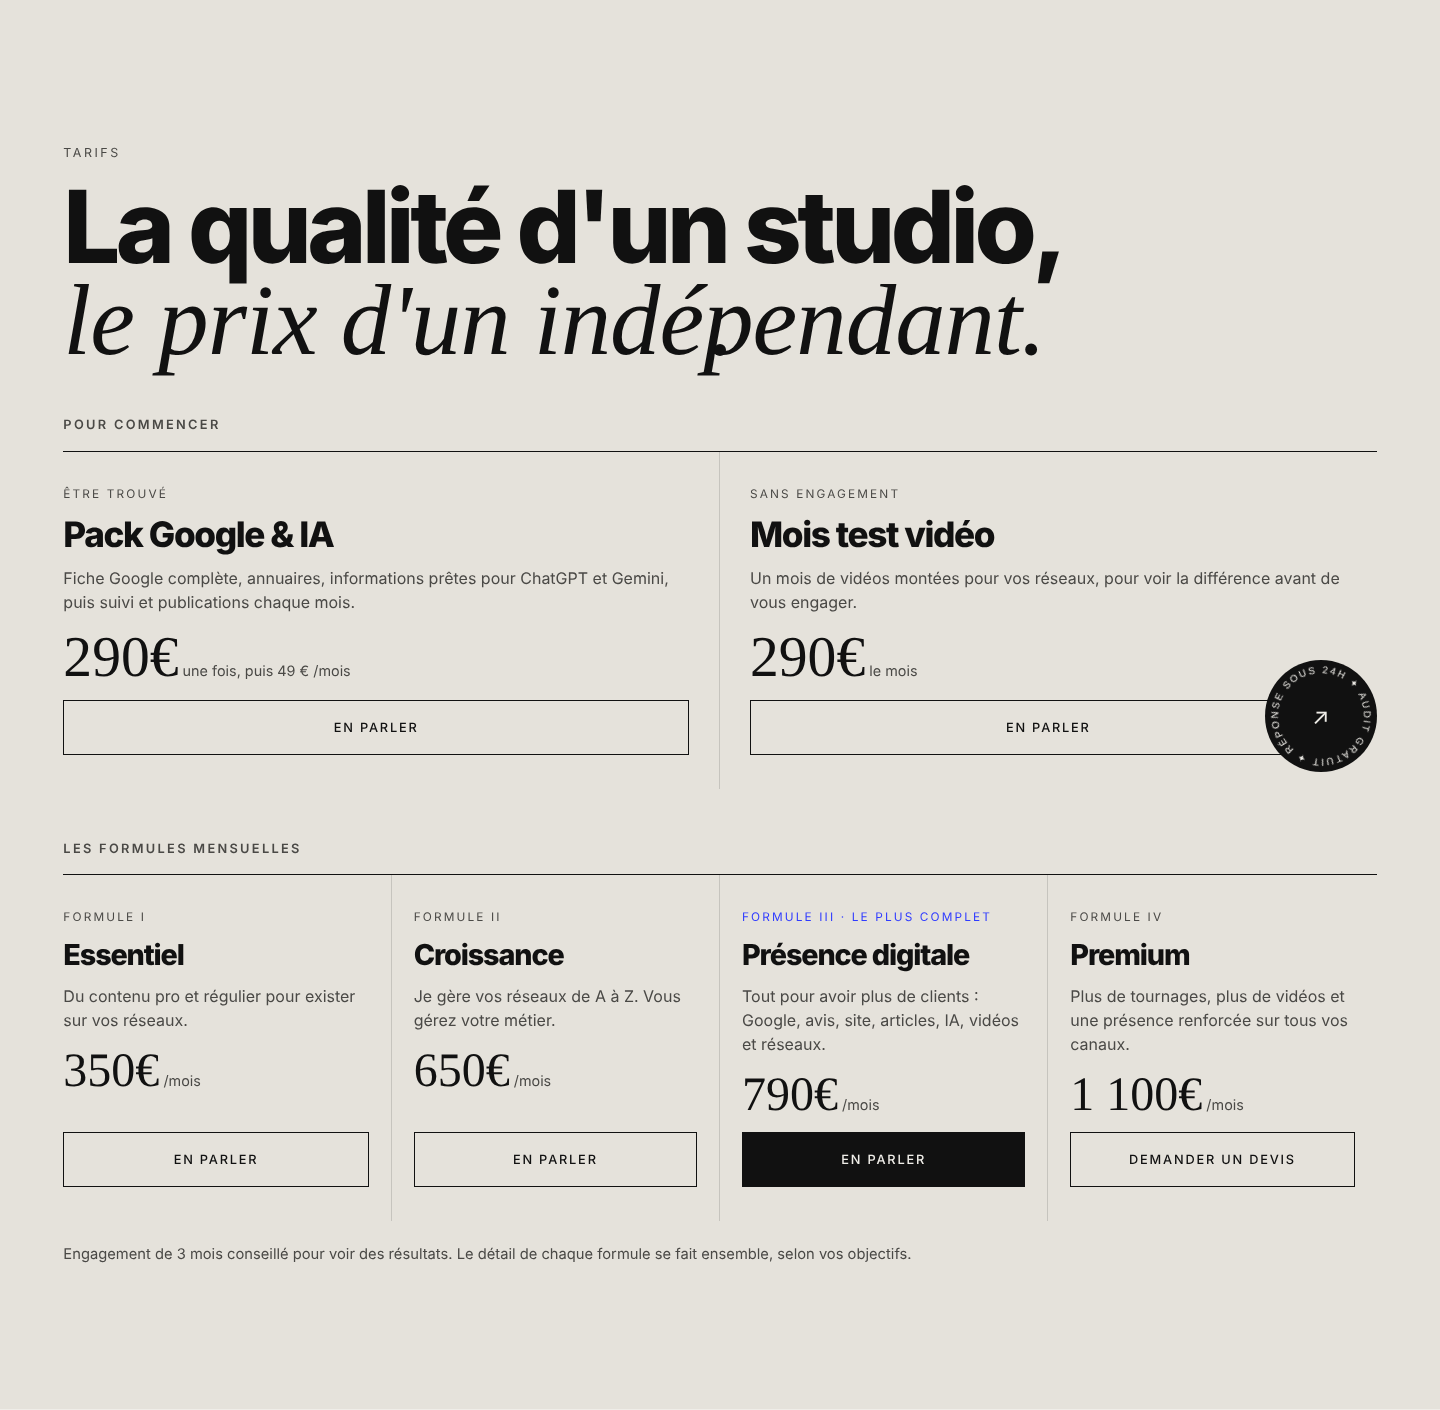
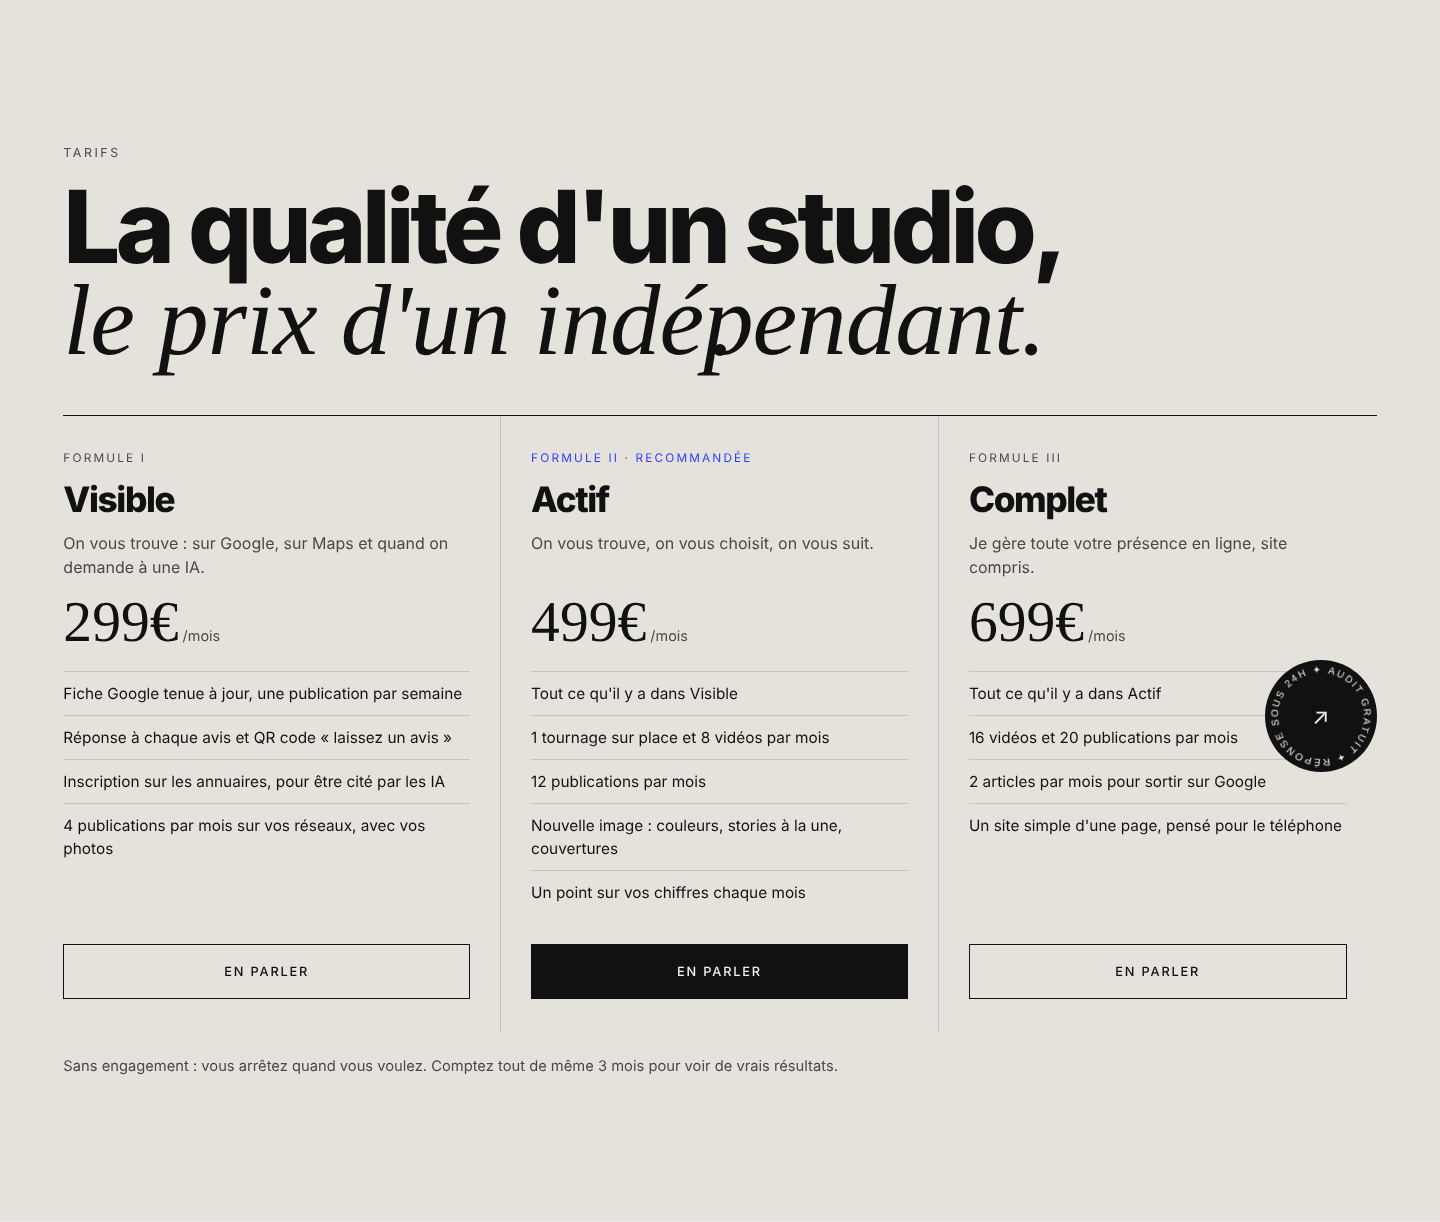
Proposition : reprise des changements de la session Prospection (accroche, Google & IA, formules Visible/Actif/Complet, FAQ) sur la version à jour du site
Claude-Session: https://claude.ai/code/session_018tAZYAxUmFNbKmCfUcRUAq

diff --git a/index.html b/index.html
@@ -4,7 +4,7 @@
 <meta charset="utf-8">
 <meta name="viewport" content="width=device-width,initial-scale=1,viewport-fit=cover">
 <title>Ngora Studio · Montage vidéo, motion design & sites web en Île-de-France</title>
-<meta name="description" content="Ngora Studio : des réseaux pros pour le moins cher, livrés en 24 h max. Montage vidéo, motion design, DA et sites web pour donner à votre marque une présence en ligne qui fait la différence. Instagram, TikTok, YouTube Shorts, LinkedIn.">
+<meta name="description" content="Ngora Studio : je crée ou j'améliore la présence de votre commerce sur Internet et sur les réseaux (vidéos, image, Google, site web) pour vous amener de nouveaux clients et renforcer votre crédibilité.">
 <link rel="canonical" href="https://nguedjeupatrick-ctrl.github.io/ngora-site/">
 <meta property="og:type" content="website">
 <meta property="og:locale" content="fr_FR">
@@ -25,7 +25,7 @@
 <link rel="icon" type="image/png" sizes="512x512" href="assets/icon-512.png">
 <link rel="apple-touch-icon" href="assets/apple-touch-icon.png">
 <script type="application/ld+json">
-{"@context":"https://schema.org","@type":"ProfessionalService","@id":"https://nguedjeupatrick-ctrl.github.io/ngora-site/#studio","name":"Ngora Studio","url":"https://nguedjeupatrick-ctrl.github.io/ngora-site/","image":"https://nguedjeupatrick-ctrl.github.io/ngora-site/assets/og.jpg","logo":"https://nguedjeupatrick-ctrl.github.io/ngora-site/assets/icon-512.png","description":"Montage vidéo pro, motion design, direction artistique, gestion des réseaux sociaux et sites web pour les marques, en Île-de-France. Livraison en 24 h maximum.","telephone":"+33649288390","email":"nguedjeupatrick@gmail.com","founder":{"@type":"Person","name":"Rayan Nguedjeu"},"areaServed":{"@type":"AdministrativeArea","name":"Île-de-France"},"address":{"@type":"PostalAddress","streetAddress":"49 bis rue Pierre Brossolette","postalCode":"95590","addressLocality":"Presles","addressRegion":"Île-de-France","addressCountry":"FR"},"priceRange":"€€","knowsAbout":["Montage vidéo","Motion design","Direction artistique","Gestion des réseaux sociaux","Création de sites web","Instagram","TikTok","YouTube Shorts"],"hasOfferCatalog":{"@type":"OfferCatalog","name":"Formules","itemListElement":[{"@type":"Offer","name":"Présence","price":"290","priceCurrency":"EUR","description":"Du contenu pro et régulier pour exister sur vos réseaux, par mois."},{"@type":"Offer","name":"Croissance","price":"590","priceCurrency":"EUR","description":"Gestion complète des réseaux, par mois."},{"@type":"Offer","name":"Signature","price":"1290","priceCurrency":"EUR","description":"Tout le marketing : contenu, publicité, branding et site, à partir de, par mois."}]}}
+{"@context":"https://schema.org","@type":"ProfessionalService","@id":"https://nguedjeupatrick-ctrl.github.io/ngora-site/#studio","name":"Ngora Studio","url":"https://nguedjeupatrick-ctrl.github.io/ngora-site/","image":"https://nguedjeupatrick-ctrl.github.io/ngora-site/assets/og.jpg","logo":"https://nguedjeupatrick-ctrl.github.io/ngora-site/assets/icon-512.png","description":"Montage vidéo pro, motion design, direction artistique, gestion des réseaux sociaux et sites web pour les marques, en Île-de-France. Livraison en 24 h maximum.","telephone":"+33649288390","email":"nguedjeupatrick@gmail.com","founder":{"@type":"Person","name":"Rayan Nguedjeu"},"areaServed":{"@type":"AdministrativeArea","name":"Île-de-France"},"address":{"@type":"PostalAddress","streetAddress":"49 bis rue Pierre Brossolette","postalCode":"95590","addressLocality":"Presles","addressRegion":"Île-de-France","addressCountry":"FR"},"priceRange":"€€","knowsAbout":["Montage vidéo","Motion design","Direction artistique","Gestion des réseaux sociaux","Création de sites web","Instagram","TikTok","YouTube Shorts"],"hasOfferCatalog":{"@type":"OfferCatalog","name":"Formules sans engagement","itemListElement":[{"@type":"Offer","name":"Visible","price":"299","priceCurrency":"EUR","description":"Fiche Google, avis, annuaires et 4 publications par mois, par mois."},{"@type":"Offer","name":"Actif","price":"499","priceCurrency":"EUR","description":"Visible + tournage, 8 vidéos et 12 publications par mois, nouvelle image, par mois."},{"@type":"Offer","name":"Complet","price":"699","priceCurrency":"EUR","description":"Actif + 16 vidéos, 20 publications, 2 articles et un site simple, par mois."}]}}
 </script>
 <script>try{window.NG_T0=performance.now();if(!matchMedia('(prefers-reduced-motion: reduce)').matches){document.documentElement.classList.add('js-intro');setTimeout(function(){document.documentElement.classList.remove('js-intro');window.NG_LATE=true;},7000);}}catch(e){}</script>
 <link rel="preconnect" href="https://fonts.googleapis.com">
@@ -594,15 +594,15 @@
   .pd-market caption{text-align:left;font-size:.8rem;letter-spacing:.14em;text-transform:uppercase;color:var(--ink-2);padding-bottom:10px}
   .pd-market th,.pd-market td{border-top:1px solid var(--line);padding:10px 0;text-align:left;font-weight:400}
   .pd-market td{text-align:right;font-family:var(--serif);font-size:1.2rem}
-  .p-sub{margin-top:50px;font-size:.8rem;letter-spacing:.18em;text-transform:uppercase;color:var(--ink-2);font-weight:600}
-  .p-sub+.plans{margin-top:16px}
-  .plans.two{grid-template-columns:repeat(2,minmax(0,1fr))}
-  .plans.four{grid-template-columns:repeat(4,minmax(0,1fr))}
-  .plans.four .plan{padding:34px 22px}.plans.four .plan:first-child{padding-left:0}
-  @media (min-width:901px){.plans.two .plan+.plan{padding-left:30px}}
-  .plans.four .plan h3{font-size:1.8rem}.plans.four .plan .price{font-size:3rem}
-  @media (max-width:1100px){.plans.four{grid-template-columns:repeat(2,minmax(0,1fr))}.plans.four .plan:nth-child(2){border-right:none}}
-  @media (max-width:900px){.pd-steps>li{grid-template-columns:1fr}.pd-bricks{grid-template-columns:1fr}.plans.two,.plans.four{grid-template-columns:1fr}.plans.four .plan{padding:30px 0}}
+  @media (max-width:900px){.pd-steps>li{grid-template-columns:1fr}.pd-bricks{grid-template-columns:1fr}}
+  .sv-media.gmock{background:#F7F6F2;color:#111;padding:16px;display:flex;flex-direction:column;gap:10px;font-size:.78rem;line-height:1.35;text-transform:none;letter-spacing:0}
+  .gm-q{background:#fff;border-radius:99px;padding:9px 14px;box-shadow:0 1px 4px rgba(0,0,0,.12)}
+  .gm-q::before{content:"⌕ ";color:#2F3BFF}
+  .gm-card{background:#fff;border-radius:14px;padding:12px;display:flex;flex-direction:column;gap:4px;box-shadow:0 1px 4px rgba(0,0,0,.1)}
+  .gm-card b{font-size:.95rem}.gm-card span{color:#555}.gm-card em{font-style:normal;color:#1E9E95}
+  .gm-st{color:#F5A623!important;letter-spacing:.1em}
+  .gm-btns{display:flex;gap:6px;flex-wrap:wrap;margin-top:4px}.gm-btns i{font-style:normal;border:1px solid #2F3BFF;color:#2F3BFF;border-radius:99px;padding:3px 9px;font-size:.7rem}
+  .gm-ai{background:#2F3BFF;color:#fff;border-radius:14px;padding:12px}.gm-ai small{display:block;opacity:.75;font-size:.66rem;letter-spacing:.12em;text-transform:uppercase;margin-bottom:4px}
 </style>
 </head>
 <body class="no-js">
@@ -646,7 +646,7 @@
     <div class="hero-txt">
       <div class="kick hx">Studio de contenu · Île-de-France</div>
       <h1 class="hx">Une image<br>qui fait <span class="it">la différence.</span></h1>
-      <p class="lead hx">Vos réseaux font amateur ? Je les rends pro : montage, motion design, DA et sites web, à des prix qui défient toute concurrence et livrés en 24 h maximum.</p>
+      <p class="lead hx">Je crée ou j'améliore votre présence sur Internet et sur les réseaux, pour vous amener de nouveaux clients et renforcer votre crédibilité. Un seul interlocuteur, à prix juste.</p>
       <div class="hero-ctas hx"><a href="#contact" class="btn" data-wa>Demander un audit gratuit</a><a href="#travaux" class="ulink">Voir les réalisations</a></div>
       <div class="hero-stats hx">
         <div><b data-count="5" data-suf="M+">5M+</b><span>vues générées</span></div>
@@ -809,7 +809,7 @@
     <div class="kick">Ce que je fais</div>
     <h2 class="h2 rv" style="margin-top:18px">Tout votre marketing,<br><span class="it">simplifié.</span></h2>
   </div>
-  <ul class="sv" id="svList" aria-label="Services (faites glisser)"><li class="sv-row on" tabindex="0"><div class="sv-line"><span class="sv-n">01</span><h3>Montage pro</h3><span class="sv-more">Voir un exemple</span></div><div class="sv-body"><p>Accroche, rythme, sous-titres dynamiques, B-roll et habillage. Des vidéos qui retiennent le pouce.</p><div class="sv-media"><video src="assets/videos/tutoria-droits-dys.mp4" poster="assets/posters/tutoria-droits-dys.jpg" muted loop playsinline preload="none"></video></div></div></li><li class="sv-row" tabindex="0"><div class="sv-line"><span class="sv-n">02</span><h3>Motion design</h3><span class="sv-more">Voir un exemple</span></div><div class="sv-body"><p>Titres, chiffres, écrans et logos animés : votre marque reconnaissable d'une vidéo à l'autre.</p><div class="sv-media"><video src="assets/videos/tutoria-motion-appli.mp4" poster="assets/posters/tutoria-motion-appli.jpg" muted loop playsinline preload="none"></video></div></div></li><li class="sv-row" tabindex="0"><div class="sv-line"><span class="sv-n">03</span><h3>DA &amp; rebranding</h3><span class="sv-more">Voir un exemple</span></div><div class="sv-body"><p>Logo, couleurs, typographies, templates : une charte claire et appliquée partout.</p><div class="sv-media"><img src="assets/insta/feed-apres-crop.jpg" alt="" loading="lazy"></div></div></li><li class="sv-row" tabindex="0"><div class="sv-line"><span class="sv-n">04</span><h3>Gestion des réseaux</h3><span class="sv-more">Voir un exemple</span></div><div class="sv-body"><p>Calendrier, publications, stories, réponses et chiffres chaque mois. Exemple : 202 K vues en 30 jours sur le compte Tutoria.</p><div class="sv-media shot"><img src="assets/insta/tutoria-profil-2026.jpg" alt="Profil Instagram géré : 202,1 K vues en 30 jours, stories à la une et feed" loading="lazy"></div></div></li><li class="sv-row" tabindex="0"><div class="sv-line"><span class="sv-n">05</span><h3>Vignettes &amp; stories</h3><span class="sv-more">Voir un exemple</span></div><div class="sv-body"><p>Couvertures, carrousels et stories interactives qui donnent envie de cliquer.</p><div class="sv-media"><img src="assets/vignettes/vig-faq-ep2.jpg" alt="" loading="lazy"></div></div></li><li class="sv-row" tabindex="0"><div class="sv-line"><span class="sv-n">06</span><h3>Sites web</h3><span class="sv-more">Voir un exemple</span></div><div class="sv-body"><p>Du site vitrine rapide au site immersif en 3D, pensé pour convertir sur téléphone.</p><div class="sv-media wide"><video src="assets/sites/continent-demo.mp4" poster="assets/sites/continent-demo.jpg" muted loop playsinline preload="none"></video></div></div></li></ul>
+  <ul class="sv" id="svList" aria-label="Services (faites glisser)"><li class="sv-row on" tabindex="0"><div class="sv-line"><span class="sv-n">01</span><h3>Montage pro</h3><span class="sv-more">Voir un exemple</span></div><div class="sv-body"><p>Accroche, rythme, sous-titres dynamiques, B-roll et habillage. Des vidéos qui retiennent le pouce.</p><div class="sv-media"><video src="assets/videos/tutoria-droits-dys.mp4" poster="assets/posters/tutoria-droits-dys.jpg" muted loop playsinline preload="none"></video></div></div></li><li class="sv-row" tabindex="0"><div class="sv-line"><span class="sv-n">02</span><h3>Motion design</h3><span class="sv-more">Voir un exemple</span></div><div class="sv-body"><p>Titres, chiffres, écrans et logos animés : votre marque reconnaissable d'une vidéo à l'autre.</p><div class="sv-media"><video src="assets/videos/tutoria-motion-appli.mp4" poster="assets/posters/tutoria-motion-appli.jpg" muted loop playsinline preload="none"></video></div></div></li><li class="sv-row" tabindex="0"><div class="sv-line"><span class="sv-n">03</span><h3>DA &amp; rebranding</h3><span class="sv-more">Voir un exemple</span></div><div class="sv-body"><p>Logo, couleurs, typographies, templates : une charte claire et appliquée partout.</p><div class="sv-media"><img src="assets/insta/feed-apres-crop.jpg" alt="" loading="lazy"></div></div></li><li class="sv-row" tabindex="0"><div class="sv-line"><span class="sv-n">04</span><h3>Gestion des réseaux</h3><span class="sv-more">Voir un exemple</span></div><div class="sv-body"><p>Calendrier, publications, stories, réponses et chiffres chaque mois. Exemple : 202 K vues en 30 jours sur le compte Tutoria.</p><div class="sv-media shot"><img src="assets/insta/tutoria-profil-2026.jpg" alt="Profil Instagram géré : 202,1 K vues en 30 jours, stories à la une et feed" loading="lazy"></div></div></li><li class="sv-row" tabindex="0"><div class="sv-line"><span class="sv-n">05</span><h3>Vignettes &amp; stories</h3><span class="sv-more">Voir un exemple</span></div><div class="sv-body"><p>Couvertures, carrousels et stories interactives qui donnent envie de cliquer.</p><div class="sv-media"><img src="assets/vignettes/vig-faq-ep2.jpg" alt="" loading="lazy"></div></div></li><li class="sv-row" tabindex="0"><div class="sv-line"><span class="sv-n">06</span><h3>Sites web</h3><span class="sv-more">Voir un exemple</span></div><div class="sv-body"><p>Du site vitrine rapide au site immersif en 3D, pensé pour convertir sur téléphone.</p><div class="sv-media wide"><video src="assets/sites/continent-demo.mp4" poster="assets/sites/continent-demo.jpg" muted loop playsinline preload="none"></video></div></div></li><li class="sv-row" tabindex="0"><div class="sv-line"><span class="sv-n">07</span><h3>Google &amp; IA</h3><span class="sv-more">Nouveau</span></div><div class="sv-body"><p>Fiche Google, avis et annuaires : on vous trouve sur Google, sur Maps et quand on pose la question à ChatGPT.</p><div class="sv-media gmock" aria-hidden="true"><div class="gm-q">coiffeur L'Isle-Adam</div><div class="gm-card"><b>Votre commerce</b><span>Coiffeur · L'Isle-Adam · <em>Ouvert</em></span><span class="gm-st">★★★★★</span><span class="gm-btns"><i>Appeler</i><i>Itinéraire</i><i>Site web</i></span></div><div class="gm-ai"><small>Réponse de l'IA</small>Pour un coiffeur à L'Isle-Adam, je vous recommande <b>Votre commerce</b> : très bien noté et ouvert aujourd'hui.</div></div></div></li></ul>
   <div class="sv-dots" id="svDots" aria-hidden="true"></div>
   <div class="wrap"><div class="channels"><span>Instagram</span><span>TikTok</span><span>YouTube Shorts</span><span>LinkedIn</span><span>Facebook</span><span>Site web</span></div></div>
 </section>
@@ -843,19 +843,12 @@
   <div class="wrap">
     <div class="kick">Tarifs</div>
     <h2 class="h2 rv" style="margin-top:18px">La qualité d'un studio,<br><span class="it">le prix d'un indépendant.</span></h2>
-    <h3 class="p-sub">Pour commencer</h3>
-    <div class="plans two">
-      <div class="plan"><span class="tag">Être trouvé</span><h3>Pack Google &amp; IA</h3><p class="for">Fiche Google complète, annuaires, informations prêtes pour ChatGPT et Gemini, puis suivi et publications chaque mois.</p><div class="price">290€<small> une fois, puis 49 € /mois</small></div><a class="btn line" href="#contact" data-wa>En parler</a></div>
-      <div class="plan"><span class="tag">Sans engagement</span><h3>Mois test vidéo</h3><p class="for">Un mois de vidéos montées pour vos réseaux, pour voir la différence avant de vous engager.</p><div class="price">290€<small> le mois</small></div><a class="btn line" href="#contact" data-wa>En parler</a></div>
+    <div class="plans">
+      <div class="plan"><span class="tag">Formule I</span><h3>Visible</h3><p class="for">On vous trouve : sur Google, sur Maps et quand on demande à une IA.</p><div class="price">299€<small> /mois</small></div><ul><li>Fiche Google tenue à jour, une publication par semaine</li><li>Réponse à chaque avis et QR code « laissez un avis »</li><li>Inscription sur les annuaires, pour être cité par les IA</li><li>4 publications par mois sur vos réseaux, avec vos photos</li></ul><a class="btn line" href="#contact" data-wa>En parler</a></div>
+      <div class="plan hot"><span class="tag">Formule II · Recommandée</span><h3>Actif</h3><p class="for">On vous trouve, on vous choisit, on vous suit.</p><div class="price">499€<small> /mois</small></div><ul><li>Tout ce qu'il y a dans Visible</li><li>1 tournage sur place et 8 vidéos par mois</li><li>12 publications par mois</li><li>Nouvelle image : couleurs, stories à la une, couvertures</li><li>Un point sur vos chiffres chaque mois</li></ul><a class="btn" href="#contact" data-wa>En parler</a></div>
+      <div class="plan"><span class="tag">Formule III</span><h3>Complet</h3><p class="for">Je gère toute votre présence en ligne, site compris.</p><div class="price">699€<small> /mois</small></div><ul><li>Tout ce qu'il y a dans Actif</li><li>16 vidéos et 20 publications par mois</li><li>2 articles par mois pour sortir sur Google</li><li>Un site simple d'une page, pensé pour le téléphone</li></ul><a class="btn line" href="#contact" data-wa>En parler</a></div>
     </div>
-    <h3 class="p-sub">Les formules mensuelles</h3>
-    <div class="plans four">
-      <div class="plan"><span class="tag">Formule I</span><h3>Essentiel</h3><p class="for">Du contenu pro et régulier pour exister sur vos réseaux.</p><div class="price">350€<small> /mois</small></div><a class="btn line" href="#contact" data-wa>En parler</a></div>
-      <div class="plan"><span class="tag">Formule II</span><h3>Croissance</h3><p class="for">Je gère vos réseaux de A à Z. Vous gérez votre métier.</p><div class="price">650€<small> /mois</small></div><a class="btn line" href="#contact" data-wa>En parler</a></div>
-      <div class="plan hot"><span class="tag">Formule III · Le plus complet</span><h3>Présence digitale</h3><p class="for">Tout pour avoir plus de clients : Google, avis, site, articles, IA, vidéos et réseaux.</p><div class="price">790€<small> /mois</small></div><a class="btn" href="#contact" data-wa>En parler</a></div>
-      <div class="plan"><span class="tag">Formule IV</span><h3>Premium</h3><p class="for">Plus de tournages, plus de vidéos et une présence renforcée sur tous vos canaux.</p><div class="price">1 100€<small> /mois</small></div><a class="btn line" href="#contact" data-wa>Demander un devis</a></div>
-    </div>
-    <p class="p-note">Engagement de 3 mois conseillé pour voir des résultats. Le détail de chaque formule se fait ensemble, selon vos objectifs.</p>
+    <p class="p-note">Sans engagement : vous arrêtez quand vous voulez. Comptez tout de même 3 mois pour voir de vrais résultats.</p>
   </div>
 </section>
 
@@ -876,6 +869,8 @@
     <div><div class="kick">Questions fréquentes</div><h2 class="h2" style="margin-top:18px">Avant de <span class="it">se lancer.</span></h2></div>
     <div>
       <details><summary>En combien de temps je vois des résultats ?</summary><p>Comptez 3 mois pour une vraie différence : le temps de trouver les formats qui marchent pour votre marque et de publier avec régularité.</p></details>
+      <details><summary>Je suis engagé sur une durée ?</summary><p>Non. Les trois formules sont au mois, sans engagement : vous arrêtez quand vous voulez.</p></details>
+      <details><summary>C'est quoi, être visible sur Google et sur les IA ?</summary><p>Quand quelqu'un cherche votre métier et votre ville sur Google ou sur Maps, ou pose la question à une IA comme ChatGPT, il doit tomber sur vous. Je m'occupe de votre fiche Google, de vos avis et des annuaires pour que ce soit le cas.</p></details>
       <details><summary>Je dois tourner les vidéos moi-même ?</summary><p>Non. Je viens tourner sur place, ou je monte vos propres rushs si vous préférez filmer vous-même.</p></details>
       <details><summary>Quels réseaux vous gérez ?</summary><p>Instagram, TikTok, YouTube Shorts, Facebook et LinkedIn. Et votre site web, pour avoir un maximum de canaux de vente.</p></details>
       <details><summary>En combien de temps je reçois mes contenus ?</summary><p>24 h maximum après le tournage ou la réception de vos rushs, pour chaque vidéo, vignette ou visuel. Pas de semaines d'attente comme en agence.</p></details>
